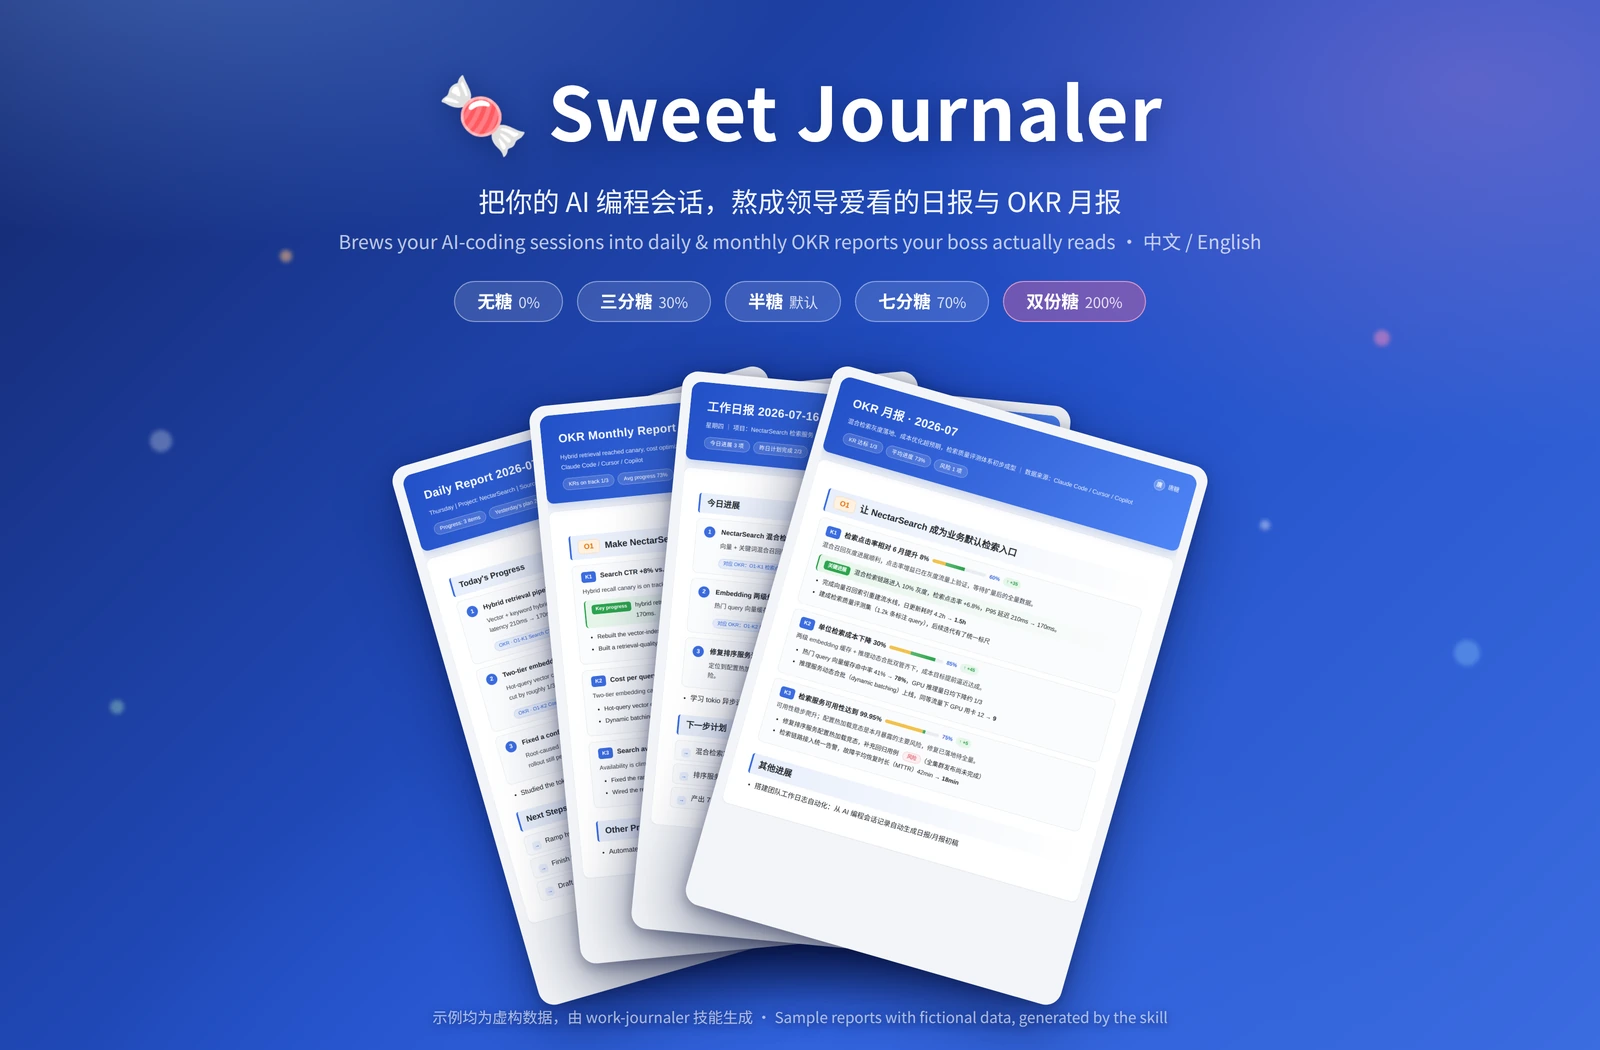
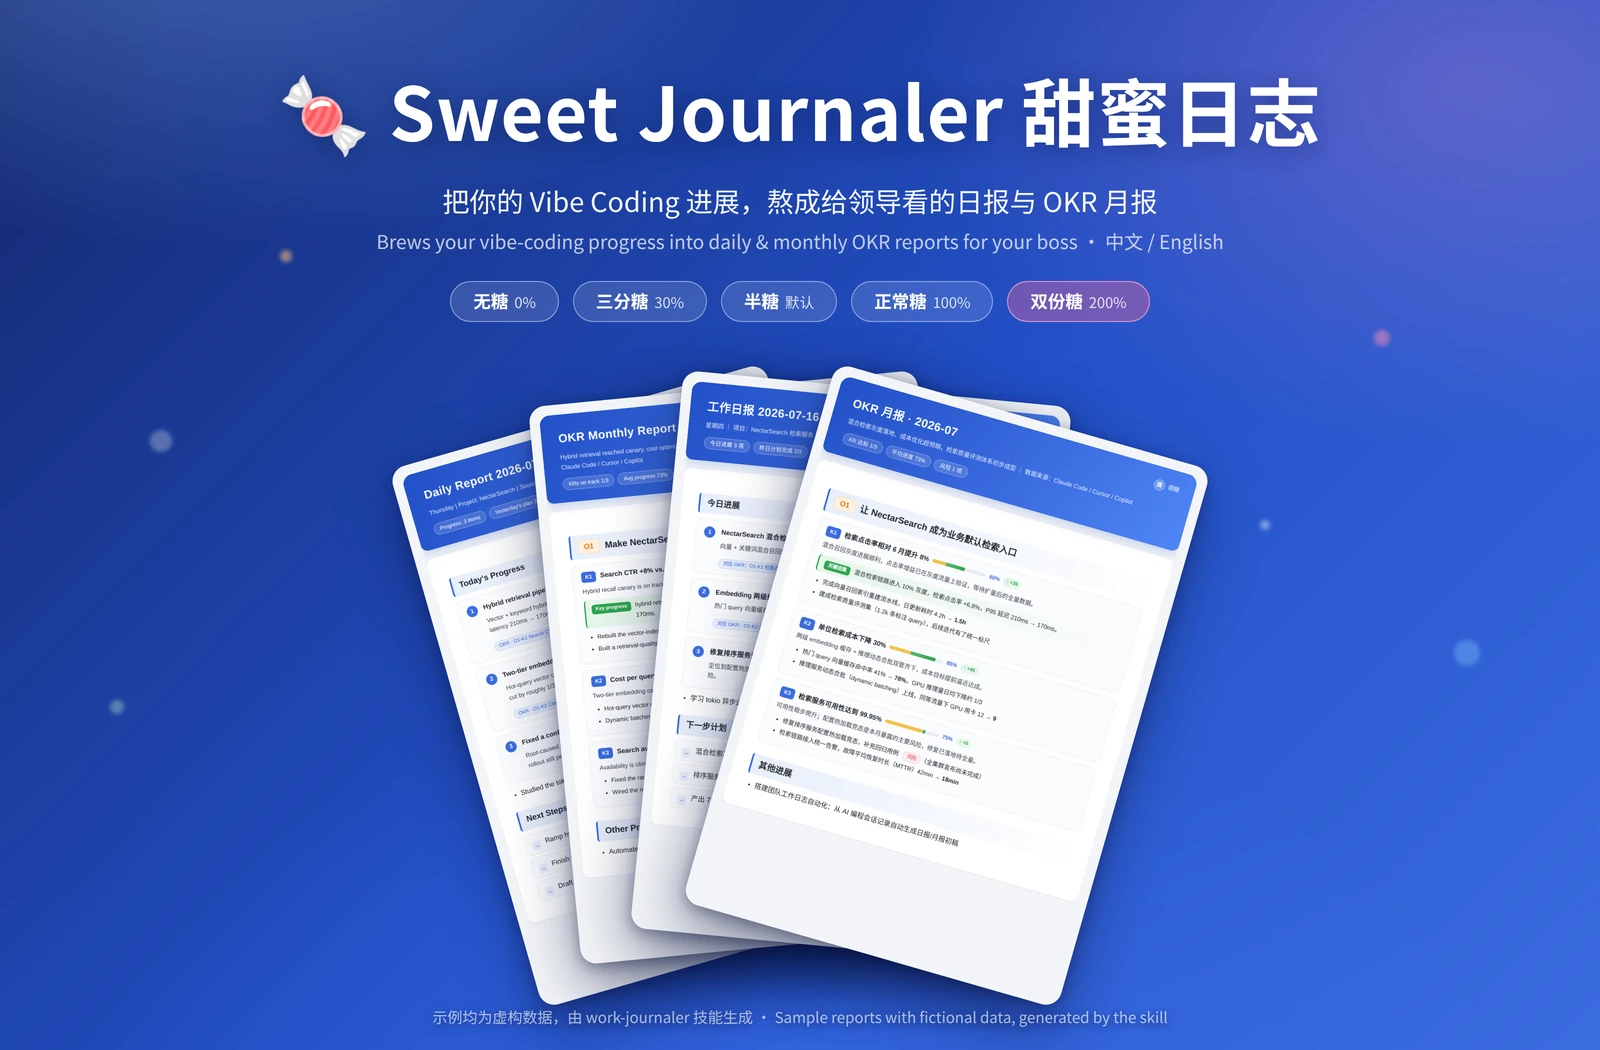
Sync English README and skill with README_CN branding updates
Mirror the merged README_CN.md edits into README.md: drop the
work-journaler suffix from the title, switch the tagline to vibe-coding
progress, rename 70% sugar to Full sugar 100%, tweak the sugar-free and
double-sugar rows, and add the restyle-the-HTML-template disclaimer.
Apply the same rename in SKILL.md (正常糖 100%, keeping 七分糖 as a
legacy alias, and 双份糖 pinned at 200%) and regenerate the promo
banner with the new title, taglines and sweetness pills.

Claude-Session: https://claude.ai/code/session_019WoWpp1FTAXUD5ySyuuY5Q

Changed region(s): [[0.1562, 0.061, 0.8438, 0.1524], [0.2188, 0.1829, 0.7812, 0.2438], [0.2812, 0.2743, 0.7188, 0.3048]]

diff --git a/README.md b/README.md
@@ -1,8 +1,8 @@
 <div align="center">
 
-# 🍬 Sweet Journaler (work-journaler)
+# 🍬 Sweet Journaler
 
-**Brews your AI-coding sessions into daily reports & monthly OKR reports your boss actually reads.**
+**Brews your vibe-coding progress into daily reports & monthly OKR reports for your boss.**
 
 English ｜ [简体中文](README_CN.md)
 
@@ -30,11 +30,11 @@ Order like you're at a bubble-tea shop: "sugar-free daily", "monthly report, 30%
 
 | Sweetness | Serves | Tasting notes |
 |---|---|---|
-| **Sugar-free 0%** | Future you | Straight espresso. The full, honest log — renames, learning sessions and all. Future you remembers nothing, so everything gets written down |
+| **Sugar-free 0%** | Future you | Straight espresso. The full, honest log of the day's hardcore work — renames, learning sessions and all. Future you remembers nothing, so everything gets written down |
 | **30% sugar** | A technical manager | Lightly sweetened. Technical terms and implementation notes survive; connoisseurs will taste the layers |
 | **Half sugar 50%** (default) | A regular manager | House recipe. One line of outcome + one line of quantified value per item, jargon translated into human |
-| **70% sugar** | A manager who has never seen code | Silky oat-milk smooth. Only "what shipped and what it means for the business" — "P95 340→180ms" becomes "checkout feels faster and steadier" |
-| **Double sugar 200%** | A day of, let's say, *strategic recharging* | Dignity mode. **No facts are invented** — small wins simply get a tuxedo: synergize, leverage, operationalize, close the loop, drive alignment, build the flywheel |
+| **Full sugar 100%** | A manager who has never seen code | Silky oat-milk smooth. Only "what shipped and what it means for the business" — "P95 340→180ms" becomes "checkout feels faster and steadier" |
+| **Double sugar 200%** | Everyone has *those* days | Dignity mode. **No facts are invented** — small wins simply get a tuxedo: synergize, leverage, operationalize, close the loop, drive alignment, build the flywheel |
 
 Three iron rules, at any sugar level:
 
@@ -97,7 +97,8 @@ python3 scripts/md_to_html.py example/daily-2026-07-16.en.md -o /tmp/demo.html
 
 ## Disclaimer
 
-- This README is for entertainment purposes; the skill, inconveniently, actually works;
+- This Skill is for entertainment purposes; inconveniently, it actually works;
 - If your reports become so good that "keep this standard going forward" becomes a formal requirement, that's on you;
+- The HTML template is yours to restyle to taste;
 - Should double-sugar output ("synergize the flywheel") cause discomfort among coworkers, please reduce sugar;
 - Sugar-free mode may contain real amounts of work. Sobering. Use with caution.

diff --git a/SKILL.md b/SKILL.md
@@ -1,6 +1,6 @@
 ---
 name: work-journaler
-description: Generate or update work journals (工作日报 / 月度 OKR 月报) by mining the user's local AI-coding conversation histories (Claude Code, Qoder, Cursor, Copilot, Aone Copilot, Codex, Cline, OpenCode) and producing confirmed Markdown + styled HTML reports under ~/work_journals. Supports a 甜度/含糖量 (sweetness) knob — 无糖/三分糖/半糖/七分糖/双份糖 — controlling how abstract vs. detailed the reporting reads. Reports are written in 中文 or English; the output language is confirmed with the user on first run, defaulting to the language the skill was triggered in. Use this skill whenever the user asks to generate, write, or update a work journal, daily report, work log, monthly report, or OKR progress — including phrases like 生成日报 / 写日报 / 更新工作日志 / 月报 / OKR 月报 / 无糖日报 / work journal / daily journal / monthly OKR, even if they don't mention files or formats.
+description: Generate or update work journals (工作日报 / 月度 OKR 月报) by mining the user's local AI-coding conversation histories (Claude Code, Qoder, Cursor, Copilot, Aone Copilot, Codex, Cline, OpenCode) and producing confirmed Markdown + styled HTML reports under ~/work_journals. Supports a 甜度/含糖量 (sweetness) knob — 无糖/三分糖/半糖/正常糖/双份糖 — controlling how abstract vs. detailed the reporting reads. Reports are written in 中文 or English; the output language is confirmed with the user on first run, defaulting to the language the skill was triggered in. Use this skill whenever the user asks to generate, write, or update a work journal, daily report, work log, monthly report, or OKR progress — including phrases like 生成日报 / 写日报 / 更新工作日志 / 月报 / OKR 月报 / 无糖日报 / work journal / daily journal / monthly OKR, even if they don't mention files or formats.
 ---
 
 # Work Journaler
@@ -84,8 +84,8 @@ Read the digest, then delete it if it was written to /tmp.
 | 无糖 / 零糖 | 自己（全量工作留档，供未来抽样回顾） | 不受 1-2 句限制，呈现当天真实工作细节：重构/重命名等杂务也记（可多件合并一行），学习会话照记。仍要总结提炼、忌流水账；关键缩写仍须中英文全称说明——未来的自己也会忘 |
 | 三分糖 / 少糖 | 技术型领导（熟悉技术细节） | 领导视角过滤照旧，但可适当保留技术术语与实现要点，常见技术缩写不必展开，每项可放宽到 2-3 句 |
 | 五分糖 / 半糖（默认） | 一般领导 | 现行标准：关键进展 + 量化价值，每项 1-2 句，避免技术细节，复杂缩写替换或注释 |
-| 七分糖 ~ 正常糖 | 完全不懂技术的领导 | 高度概括、宏观说大白话：只讲"做成了什么、对业务意味着什么"，不用任何术语与缩写，量化数字翻译成业务影响（"下单更快更稳"而非 "P95 340→180ms"） |
-| 双份糖（>100%） | 摸鱼的一天 | 今日产出太少或没有核心进展时的体面模式：**不编造事实**，但用互联网黑话把小事讲出声势——赋能、抓手、闭环、拉通、对齐、沉淀、组合拳、颗粒度、心智、反哺，任君调味 |
+| 正常糖（100%，旧称七分糖） | 完全不懂技术的领导 | 高度概括、宏观说大白话：只讲"做成了什么、对业务意味着什么"，不用任何术语与缩写，量化数字翻译成业务影响（"下单更快更稳"而非 "P95 340→180ms"） |
+| 双份糖（200%） | 摸鱼的一天 | 今日产出太少或没有核心进展时的体面模式：**不编造事实**，但用互联网黑话把小事讲出声势——赋能、抓手、闭环、拉通、对齐、沉淀、组合拳、颗粒度、心智、反哺，任君调味 |
 
 无论甜度多少，三条不变：**事实与数字不可编造**；报告结构（hero/卡片/计划行/
 OKR 对齐）不变；**甜度本身绝不写进报告**——一份"双份糖"日报被领导看出配方